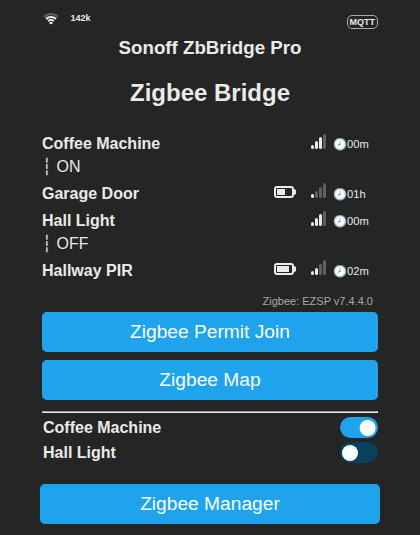
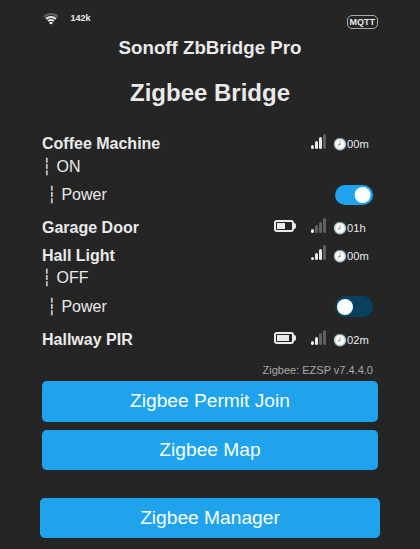
Put the relay switches in Tasmota's own zigbee list, version 0x01000013
Tasmota's zigbee list on the main page calls web_device_status on the zigbee
handlers after the rows of each device. The web ui is now one, and adds a
line below each added device with a switch for each of its relays, named as
in the schema, like Tasmota's own lines under a device.

A relay the list did not show, as on a Tasmota without the hook, still gets
its switch in the sensor table after the list, named after its device.

diff --git a/README.md b/README.md
@@ -102,7 +102,9 @@ Changes the values otherwise set with `ZbmConfig`. **Reset settings** puts them 
 
 <img src="docs/images/main-page.png" alt="Relay switches on Tasmota's main page" width="420">
 
-Tasmota's main page has a switch for every relay of the added devices, after Tasmota's own Zigbee section. A switch is named after its device, and after the relay as well when the device has more than one. Tasmota refreshes this part of the page every few seconds, so a relay switched another way, from Home Assistant or the device's own button, shows its new state, and a state that is not known yet is dimmed. Clicking a switch sets the relay on or off. Like Tasmota's own relay buttons, the switches work for anyone who can open the main page, also with `WebServer 1`, where the Zigbee Manager pages are not available.
+In Tasmota's own Zigbee list on the main page, an added device has a line with a switch for each of its relays, below its other lines, named as the relay is in its schema. Tasmota refreshes the list every few seconds, so a relay switched another way, from Home Assistant or the device's own button, shows its new state, and a state that is not known yet is dimmed. Clicking a switch sets the relay on or off. Like Tasmota's own relay buttons, the switches work for anyone who can open the main page, also with `WebServer 1`, where the Zigbee Manager pages are not available.
+
+The lines are added through the hook Tasmota's Zigbee list has for extensions, `web_device_status`. A relay the list does not show, as on a Tasmota without the hook, gets its switch after the list instead, named after its device.
 
 ### Tasmota Style
 
